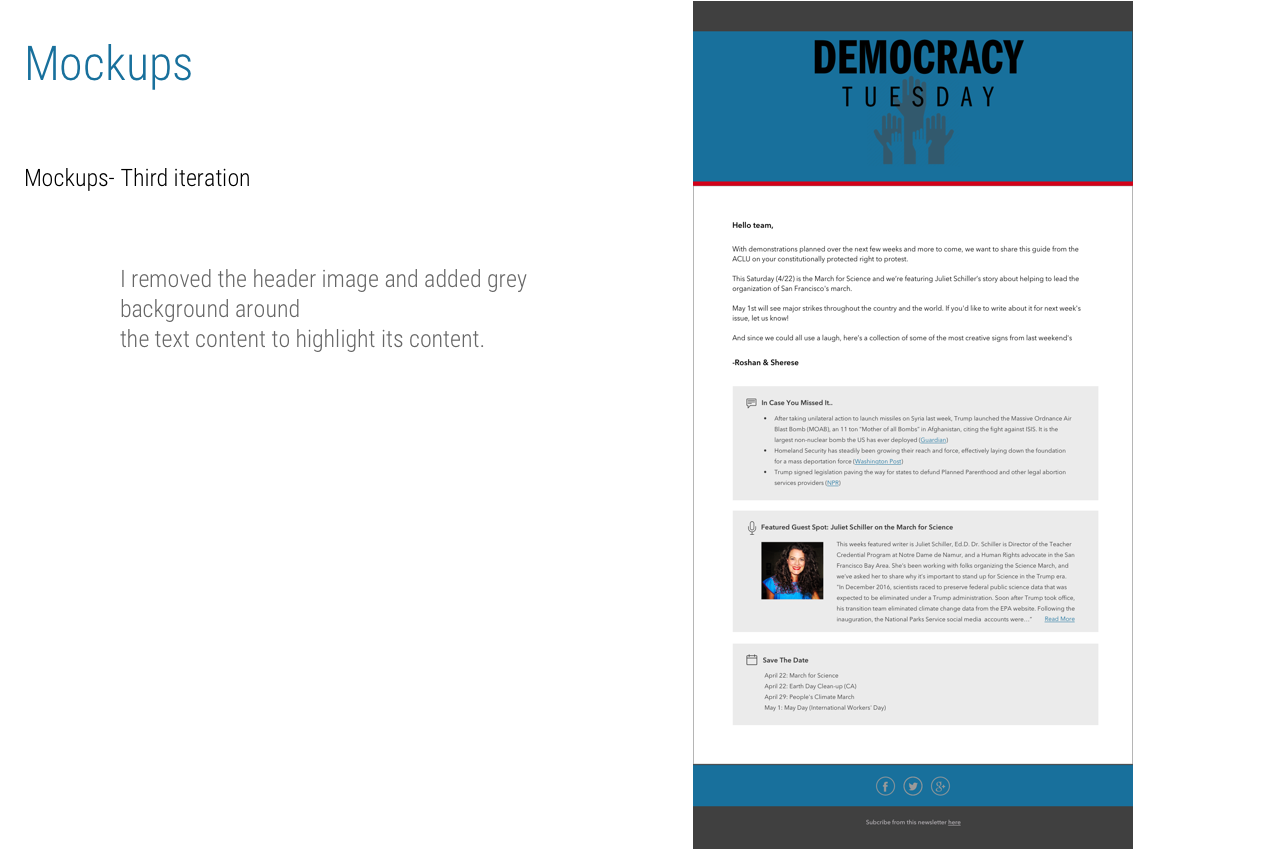
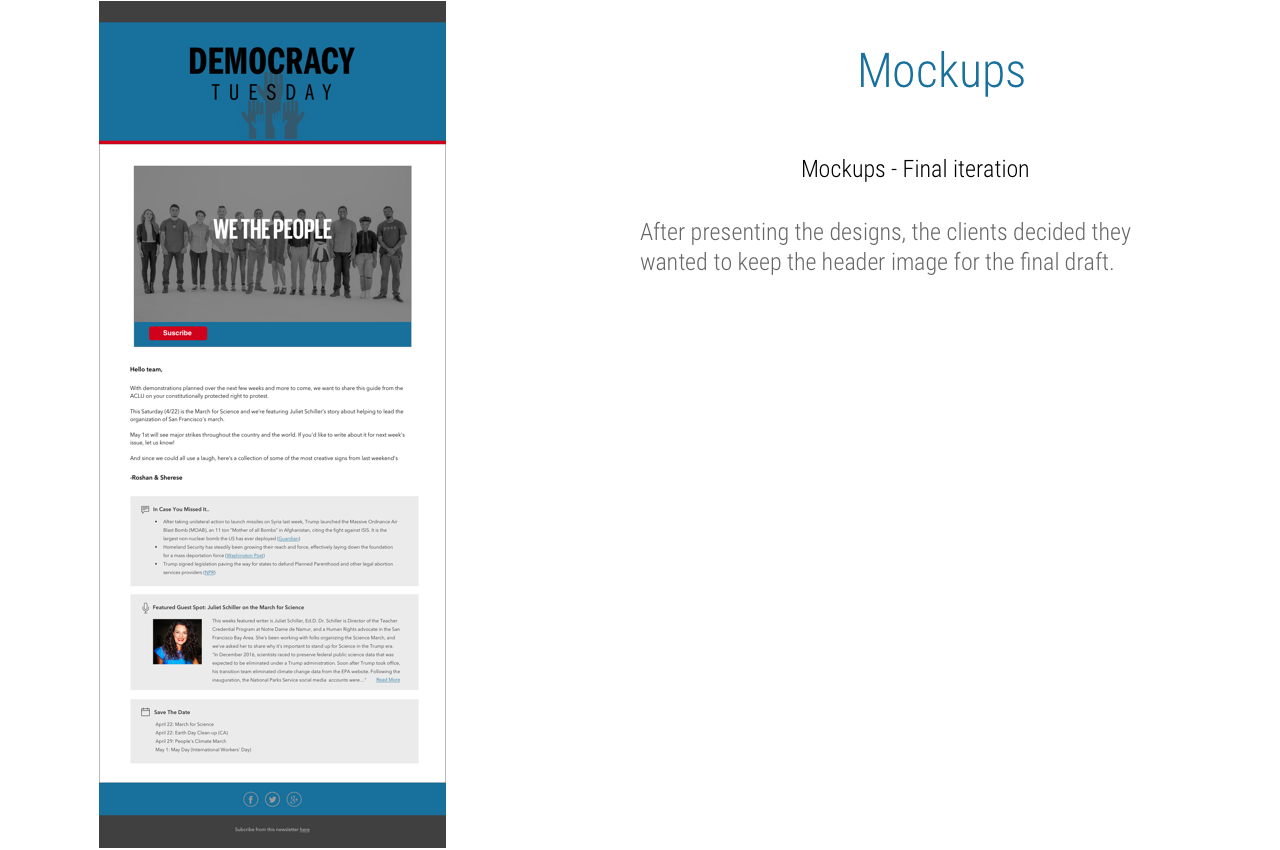
added images

diff --git a/templates/pages/democracy-tuesday.html b/templates/pages/democracy-tuesday.html
@@ -44,11 +44,11 @@
     <section>
         <div class="row multi-columns-row">
             <div class="col-sm-12 col-md-12 col-lg-12">
-                <img src="static/images/dt/persona12.png" alt="Title of Image" />
+                <img src="static/images/dt/persona1.png" alt="Title of Image" />
 
-                <img src="static/images/dt/persona22.png" alt="Title of Image" />
+                <img src="static/images/dt/persona2.png" alt="Title of Image" />
 
-                <img src="static/images/dt/persona32.png" alt="Title of Image" />
+                <img src="static/images/dt/persona3.png" alt="Title of Image" />
 
             </div>
         </div>
@@ -58,7 +58,7 @@
     <section>
         <div class="row multi-columns-row">
             <div class="col-sm-12 col-md-12 col-lg-12">
-                <img src="static/images/dt/senario2.png" alt="Title of Image" />
+                <img src="static/images/dt/senario.png" alt="Title of Image" />
             </div>
         </div>
     </section>
@@ -67,15 +67,15 @@
     <section>
         <div class="row multi-columns-row">
             <div class="col-sm-12 col-md-12 col-lg-12">
-                <img src="static/images/dt/research2.png" alt="Title of Image" />
+                <img src="static/images/dt/research.png" alt="Title of Image" />
             </div>
         </div>
     </section>
     <section>
         <div class="row multi-columns-row">
             <div class="col-sm-12 col-md-12 col-lg-12">
-                <img src="static/images/dt/wireframes2.png" alt="Title of Image" />
-                <img src="static/images/dt/wf22.png" alt="Title of Image" />
+                <img src="static/images/dt/wireframes-drawn.png" alt="Title of Image" />
+                <img src="static/images/dt/wireframes-sketch.png" alt="Title of Image" />
             </div>
         </div>
     </section>
@@ -84,15 +84,15 @@
 
         <div class="row multi-columns-row">
             <div class="col-sm-12 col-md-12 col-lg-12">
-                <img src="static/images/dt/mockups.png" alt="Title of Image" />
+                <img src="static/images/dt/mockups1.png" alt="Title of Image" />
                 <img src="static/images/dt/mockups2.png" alt="Title of Image" />
                 <img src="static/images/dt/mockups3.png" alt="Title of Image" />
-                <img src="static/images/dt/mockups4.png" alt="Title of Image" />
-            </div>
+<!--                 <img src="static/images/dt/mockups5.png" alt="Title of Image" />
+ -->            </div>
         </div>
     </section>
     <br>
-                    <img src="static/images/dt/final.png" alt="Title of Image" />
+                    <img src="static/images/dt/mockup-final.png" alt="Title of Image" />
 
 
 <hr class="divider-c">
